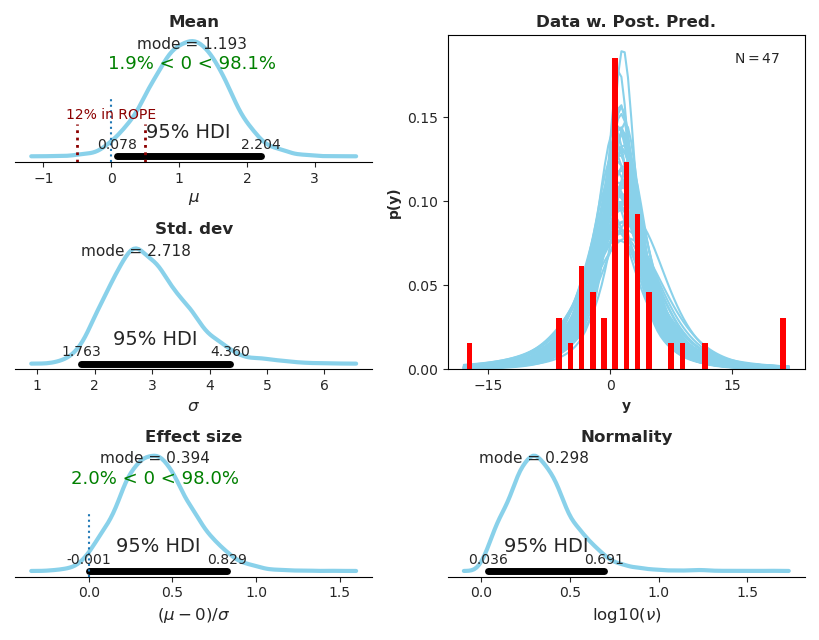
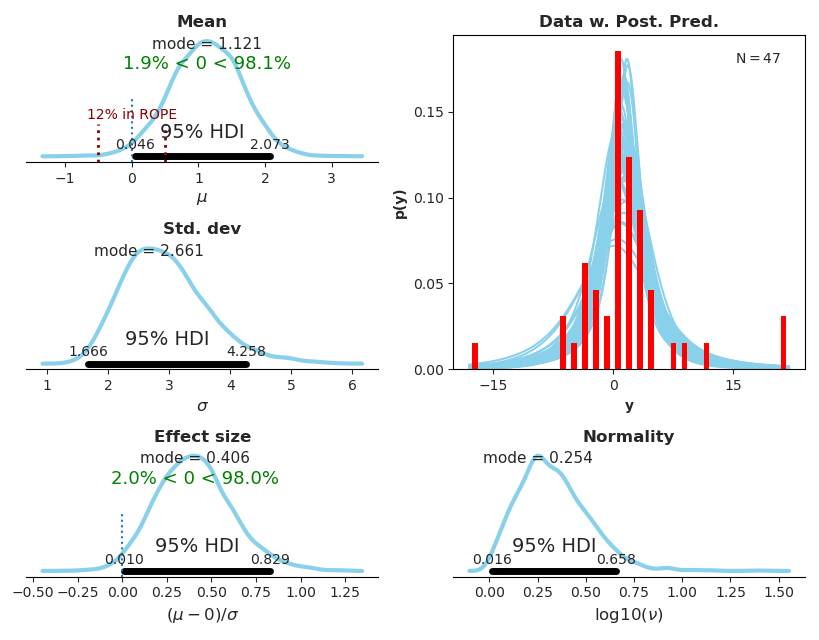
Refactor to not require PYMC as dependency

diff --git a/best/plot.py b/best/plot.py
@@ -3,7 +3,7 @@ import random
 import seaborn as sns
 import matplotlib.pyplot as plt
 import matplotlib.ticker as mticker
-from pymc.distributions import noncentral_t_like
+import scipy.stats as st
 from matplotlib.transforms import blended_transform_factory
 
 from best.utils import calculate_statistics
@@ -122,15 +122,16 @@ def plot_posterior_distribution(ax, trace, model):
     ax.set_xlabel('y', fontweight='bold')
     ax.set_ylabel('p(y)', fontweight='bold')
 
-    idxs = random.sample(list(range(len(means))), 50)
-    x = np.linspace(bins[0], bins[-1], 100)
+    n_curves = 50
+    idxs = random.sample(list(range(len(means))), n_curves)
+    x = np.linspace(bins[0], bins[-1], 1000)
 
     for i in idxs:
         mu = means[i]
-        lam = 1 / stds[i] ** 2
+        std = stds[i]
         nu = numos[i] + 1
 
-        v = np.exp([noncentral_t_like(xi, mu, lam, nu) for xi in x])
+        v = st.t.pdf(x, nu, mu, std)
         ax.plot(x, v, color='#89d1ea', zorder=-10)
 
     ax.text(0.8, 0.95, r'$\mathrm{N}=%d$' % len(observations),

diff --git a/README.md b/README.md
@@ -14,7 +14,7 @@ BEST](http://www.indiana.edu/~kruschke/BEST/) for more information.
 ## Requirements ##
 
  * tested with Python 3.6
- * [PyMC3](https://docs.pymc.io/) and [PyMC](https://github.com/pymc-devs/pymc) for MCMC sampling
+ * [PyMC3](https://docs.pymc.io/) for MCMC sampling
  * [matplotlib](http://matplotlib.org) and [seaborn](https://seaborn.pydata.org/) for plotting
 
 ## Example ##
